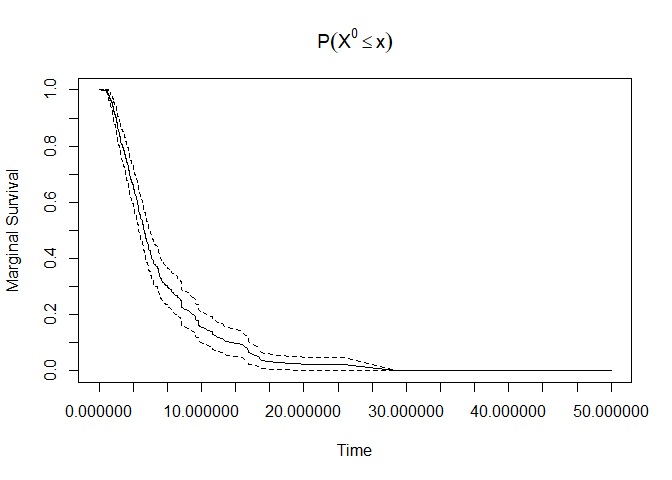
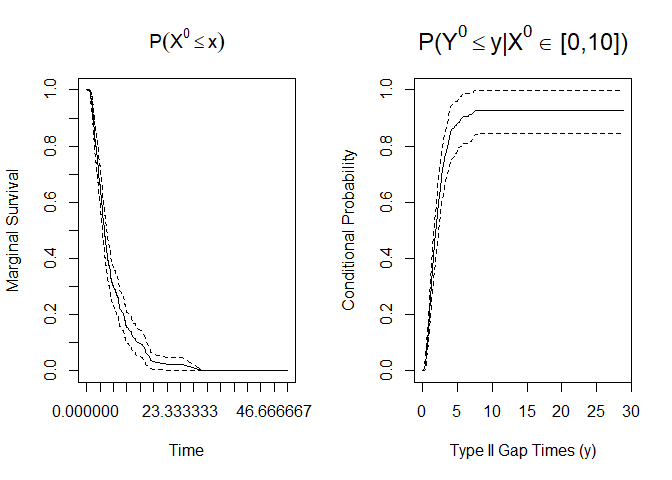
update readme and ran cran check for windows

diff --git a/README.md b/README.md
@@ -35,7 +35,7 @@ install_github("SandraCastroPearson/BivRec")
 Example
 -------
 
-This is a basic example which shows you how to solve a common problem:
+This is an example using a simulated data set.
 
 ``` r
 # Simulate bivariate alternating recurrent event data
@@ -60,23 +60,28 @@ biv.rec.plot(formula = id + epi ~ xij + yij, data = biv.rec.data)
 
 ``` r
 
-#Apply the non-parametric method of Huang and Wang (2005) and visualize marginal and conditional results.
+# Apply the non-parametric method of Huang and Wang (2005) and visualize marginal and conditional results
+
+# To save the plots open a pdf file by un-commenting the following line of code: 
+# pdf("nonparamplots.pdf")
+par(mfrow=c(1,2))
 nonpar.result <- biv.rec.np(formula = id + epi + xij + yij + d1 + d2 ~ 1,
            data=biv.rec.data, ai=1, u1 = c(2, 5, 10, 20), u2 = c(1, 5, 10, 15),
            conditional = TRUE, given.interval=c(0, 10), jointplot=FALSE,
            marginalplot = TRUE, condiplot = TRUE)
-#> [1] "Original Number of Observations: 866 for 150 individuals"
-#> [1] "Observations to be used in Analysis: 866 for 150 individuals"
+#> [1] "Original number of observations: 866 for 150 individuals"
+#> [1] "Observations to be used in analysis: 866 for 150 individuals"
 #> [1] "Estimating joint cdf and marginal survival"
+#> [1] "Estimating conditional CDF with 95% CI using 100 Bootstrap samples"
 ```
 
 ![](README-BivRecExample-2.png)
 
-    #> [1] "Estimating Conditional CDF with 95% CI using 100 Sample Bootstrap"
-
-![](README-BivRecExample-3.png)
-
 ``` r
+
+# To close the pdf file with the plot un-comment the following line of code
+# dev.off()
+
 head(nonpar.result$joint.cdf)
 #>   x  y Joint.Probability         SE     0.025%    0.975%
 #> 1 2  1        0.08928573 0.01892769 0.05218813 0.1263833
@@ -109,11 +114,11 @@ head(nonpar.result$conditional.cdf)
 #> 5             0.09
 #> 6             0.14
 
-#Apply Lee C, Huang CY, Xu G, Luo X (2017) method using multiple covariates.
+# Apply Lee C, Huang CY, Xu G, Luo X (2017) method using multiple covariates
 fit.lee <- biv.rec.fit(formula = id + epi + xij + yij + d1 + d2 ~ a1 + a2,
                 data=biv.rec.data, method="Lee.et.al", CI=0.99)
-#> [1] "Original Number of Observations: 866 for 150 individuals"
-#> [1] "Observations to be used in Analysis: 866 for 150 individuals"
+#> [1] "Original number of observations: 866 for 150 individuals"
+#> [1] "Observations to be used in analysis: 866 for 150 individuals"
 #> [1] "fitting model with covariates: a1,a2"
 #> [1] "Estimating standard errors/confidence intervals"
 fit.lee$covariate.effects
